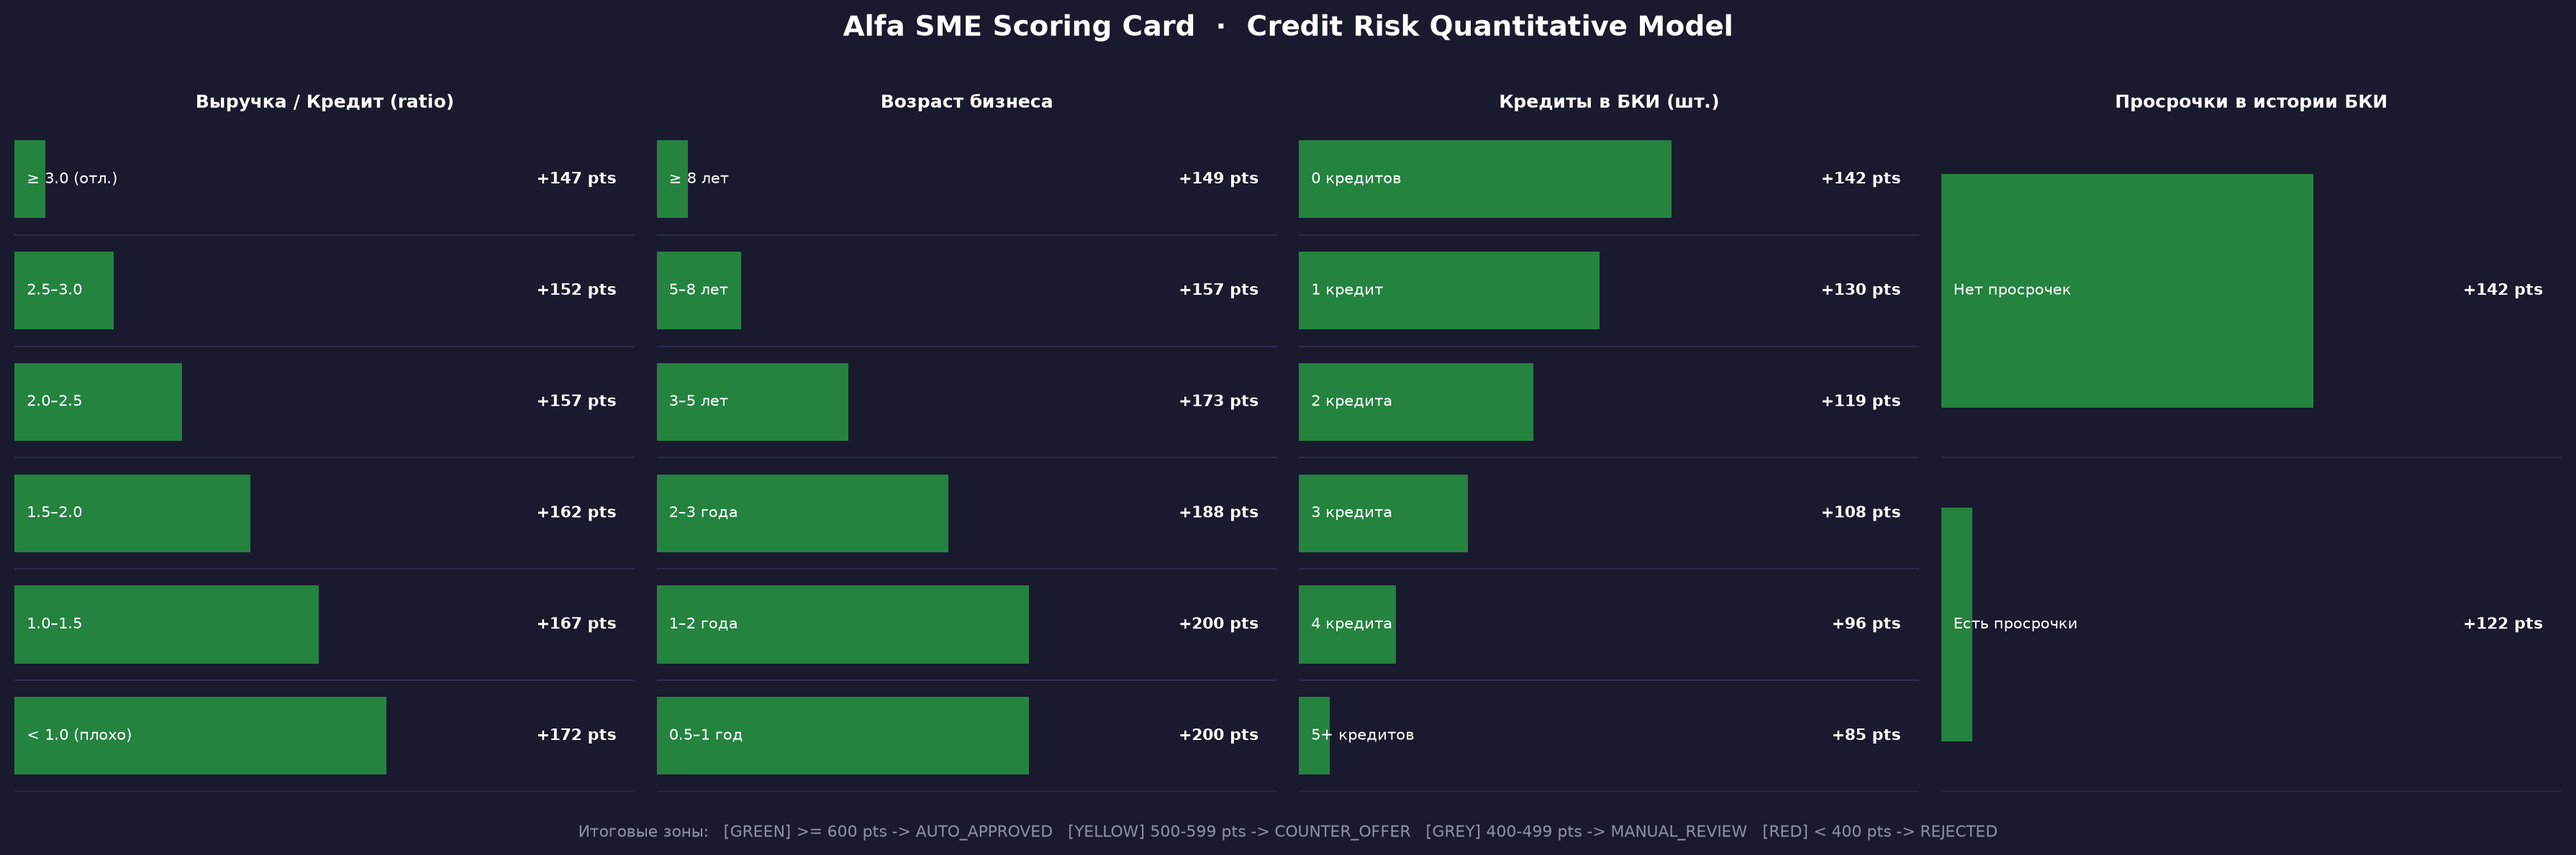
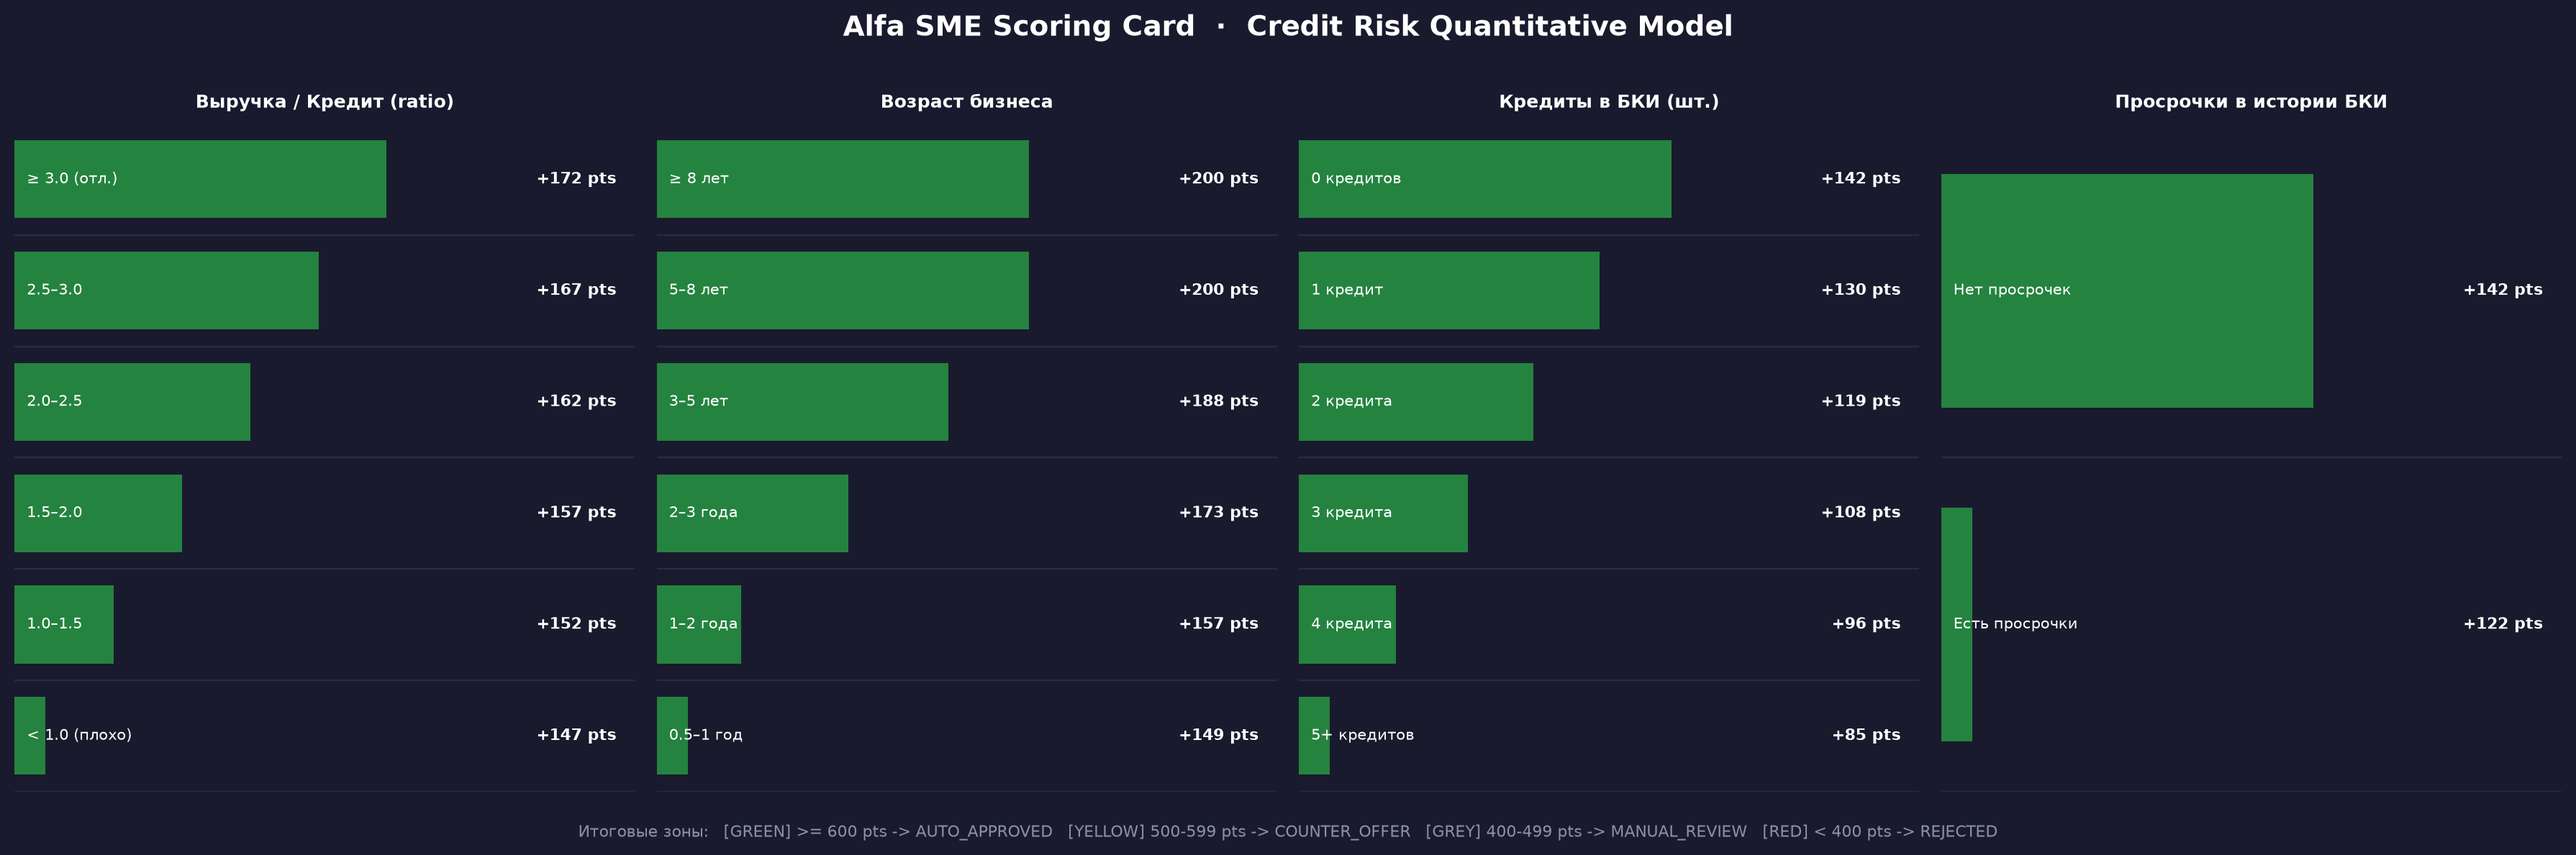
fix(scoring): align scorecard bins order with labels for correct point direction

diff --git a/scoring/train.py b/scoring/train.py
@@ -65,8 +65,9 @@ def build_scorecard(model, feature_cols, pdo=20, target_score=500, target_odds=1
     n_feats   = len(feature_cols)
 
     BINS = {
-        "revenue_to_loan_ratio":   [0.5, 1.0, 1.5, 2.0, 2.5, 3.0],
-        "business_age_years":      [0.5, 1.0, 2.0, 3.0, 5.0, 8.0],
+        # значения идут в том же порядке, что и подписи (от лучшего к худшему)
+        "revenue_to_loan_ratio":   [3.0, 2.5, 2.0, 1.5, 1.0, 0.5],
+        "business_age_years":      [8.0, 5.0, 3.0, 2.0, 1.0, 0.5],
         "bki_active_loans_count":  [0,   1,   2,   3,   4,   5  ],
         "bki_had_past_delinquency":[0,   1                       ],
     }
